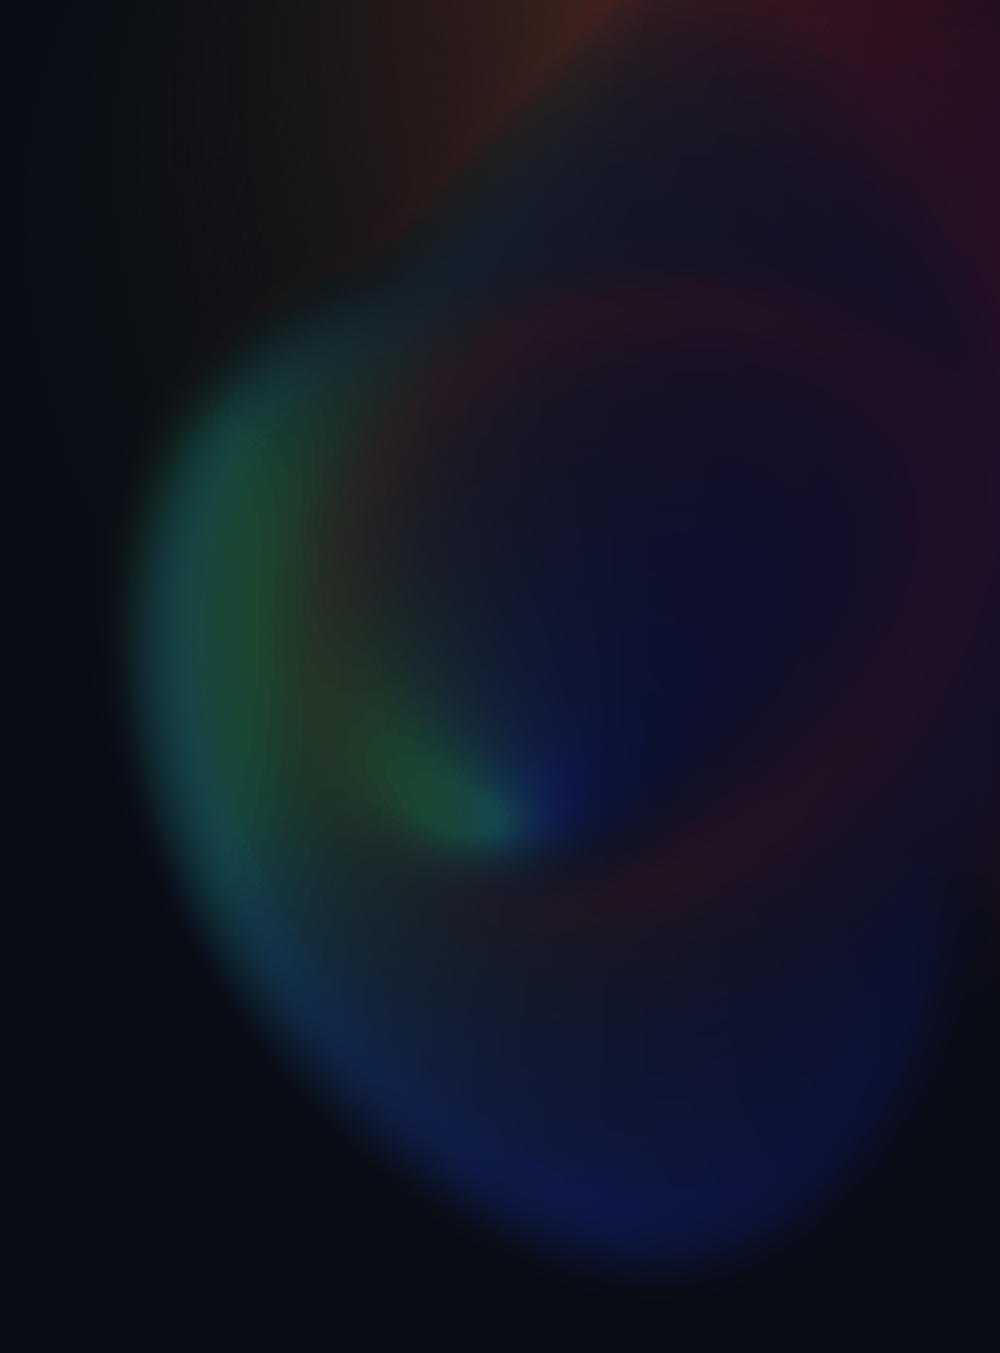
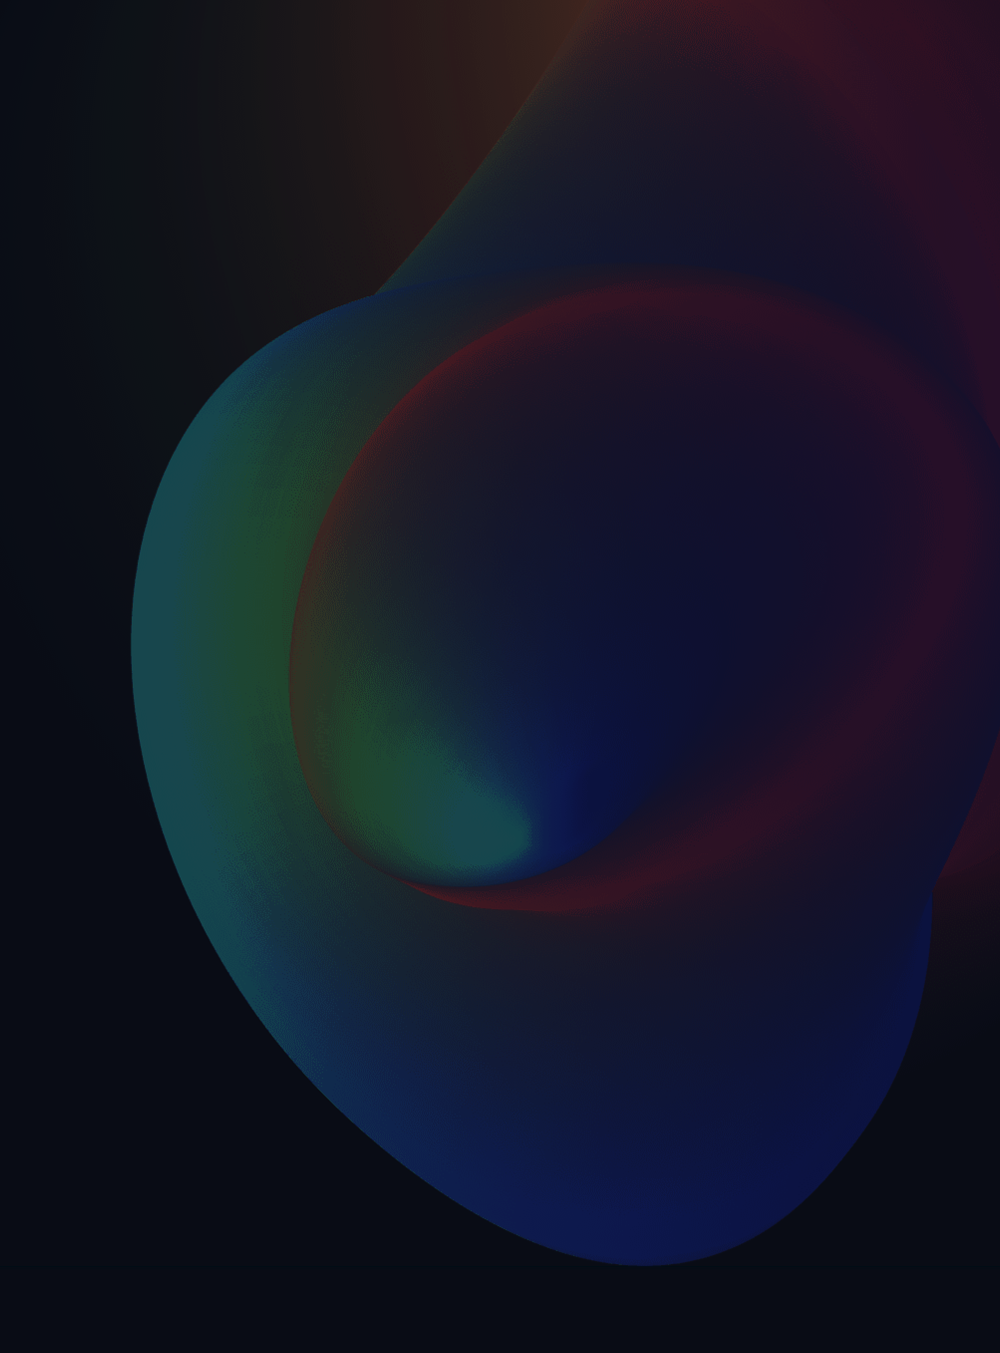
added project order and changed hero mesh to better qualiry

diff --git a/src/cms/index.ts b/src/cms/index.ts
@@ -33,10 +33,11 @@ async function fetchCmsAPI(
 export async function getAllProjects(): Promise<ProjectPreviewData[]> {
     const data = await fetchCmsAPI(`
      {
-        allProjects {
+        allProjects (orderBy: order_DESC) {
             id
             alias
             title
+            order
             thumbnail {
                 basename
                 height
@@ -53,7 +54,7 @@ export async function getAllProjects(): Promise<ProjectPreviewData[]> {
 export async function getAllProjectsAlias(): Promise<string[]> {
     const data = await fetchCmsAPI(`
     {
-        allProjects {
+        allProjects (orderBy: order_DESC) {
             alias
         }
     }`);
@@ -70,6 +71,7 @@ export async function getProjectDetail(alias: string): Promise<{ project: Projec
             title
             subtitle
             periode
+            order
             wip
             description
             client
@@ -118,6 +120,7 @@ export async function getHome(): Promise<HomeData> {
             featuredProjects {
               id
               alias
+              order
               title
               thumbnail {
                 url

diff --git a/src/components/projects/ProjectPreview.tsx b/src/components/projects/ProjectPreview.tsx
@@ -9,10 +9,17 @@ type Props = {
   img: ImageData;
   heading?: "h2" | "h3";
   title: string;
+  order: number;
   alias: string;
 };
 
-const ProjectPreview = ({ img, heading = "h3", title, alias }: Props) => {
+const ProjectPreview = ({
+  img,
+  heading = "h3",
+  title,
+  alias,
+  order,
+}: Props) => {
   const Heading = heading;
   const [hover, setHover] = React.useState(false);
   const rootRef = React.useRef<HTMLAnchorElement>();
@@ -101,7 +108,9 @@ const ProjectPreview = ({ img, heading = "h3", title, alias }: Props) => {
           </Heading>
           <div className="py-0.5 bg-fk-green w-full" />
           <div className="flex items-center gap-8">
-            <span className="text-fk-white-lighter text-xs md:text-sm">01</span>
+            <span className="text-fk-white-lighter text-xs md:text-sm">
+              {order.toString().padStart(2, "0")}
+            </span>
 
             <FiArrowRight
               className={`text-fk-white-lighter transition-transform duration-200 ease-in-out ${

diff --git a/src/components/layout/Layout.tsx b/src/components/layout/Layout.tsx
@@ -20,6 +20,7 @@ const Layout = ({ children }: Props) => {
             layout="responsive"
             quality={100}
             alt="bg-mesh"
+            className="blur-xl"
           />
         </div>
         <div className="dark:hidden w-full">
@@ -28,6 +29,7 @@ const Layout = ({ children }: Props) => {
             quality={100}
             src={DESKTOP_LIGHT_BG}
             alt="bg-mesh"
+            className="blur-xl"
           />
         </div>
       </div>

diff --git a/src/components/timeline/TimeLineItem.tsx b/src/components/timeline/TimeLineItem.tsx
@@ -9,7 +9,7 @@ type Props = {
 const TimeLineItem = ({ title, periode, description }: Props) => {
   return (
     <div className="timeline-item group flex even:flex-row-reverse items-start gap-x-16 lg:gap-x-28">
-      <div className="text-fk-green flex-1 text-end group-even:text-start">
+      <div className="text-fk-green-darker flex-1 text-end group-even:text-start">
         {periode}
       </div>
       <div className="flex flex-col gap-y-4 flex-1 group-even:items-end">

diff --git a/src/cms/types.ts b/src/cms/types.ts
@@ -16,12 +16,14 @@ export interface ProjectPreviewData {
     id: string;
     alias: string;
     title: string;
+    order: number;
     thumbnail: ImageData;
 }
 
 export interface Project {
     id: string;
     alias: string;
+    order: number;
     title: string;
     subtitle: string;
     description: string;

diff --git a/src/components/projects/ProjectList.tsx b/src/components/projects/ProjectList.tsx
@@ -26,6 +26,7 @@ const ProjectList = ({ list }: Props) => {
           key={index}
         >
           <ProjectPreview
+            order={project.order}
             img={project.thumbnail}
             alias={project.alias}
             title={project.title}

diff --git a/src/styles/globals.css b/src/styles/globals.css
@@ -21,6 +21,10 @@ a {
     box-sizing: border-box;
 }
 
+*:focus-visible {
+    outline: none;
+}
+
 ::-webkit-scrollbar {
     background-color: transparent;
     width: 4px;
